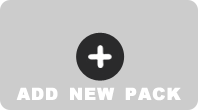
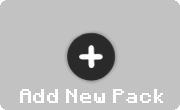
Cleaned up RestAPI calls to catch errors correctly. Updated add pack image.

diff --git a/src/main/java/org/spoutcraft/launcher/technic/rest/RestAPI.java b/src/main/java/org/spoutcraft/launcher/technic/rest/RestAPI.java
@@ -128,18 +128,9 @@ public class RestAPI {
 	}
 
 	private Modpacks setupModpacks() throws RestfulAPIException {
-		InputStream stream = null;
-		String url = restInfoURL;
-		try {
-			URL conn = new URL(url);
-			stream = conn.openConnection().getInputStream();
-			Modpacks result = mapper.readValue(stream, Modpacks.class);
-			return result;
-		} catch (IOException e) {
-			throw new RestfulAPIException("Error accessing URL [" + url + "]", e);
-		} finally {
-			IOUtils.closeQuietly(stream);
-		}
+		Modpacks result = getRestObject(Modpacks.class, restInfoURL);
+		result.setRest(this);
+		return result;
 	}
 
 	public Modpacks getModpacks() {
@@ -155,71 +146,31 @@ public class RestAPI {
 	}
 
 	public String getModMD5(String mod, String build) throws RestfulAPIException {
-		InputStream stream = null;
-		String url = getModMD5URL(mod, build);
-		try {
-			URL conn = new URL(url);
-			stream = conn.openConnection().getInputStream();
-			TechnicMD5 md5Result = mapper.readValue(stream, TechnicMD5.class);
-			return md5Result.getMD5();
-		} catch (IOException e) {
-			throw new RestfulAPIException("Error accessing URL [" + url + "]", e);
-		} finally {
-			IOUtils.closeQuietly(stream);
-		}
+		TechnicMD5 result = getRestObject(TechnicMD5.class, getModMD5URL(mod, build));
+		return result.getMD5();
 	}
 
 	public RestModpack getModpack(RestInfo modpack, String build) throws RestfulAPIException {
-		InputStream stream = null;
-		String url = getModpackURL(modpack.getName(), build);
-		try {
-			URL conn = new URL(url);
-			stream = conn.openConnection().getInputStream();
-			RestModpack result = mapper.readValue(stream, RestModpack.class);
-			result.setRest(this);
-			return result.setInfo(modpack, build);
-		} catch (IOException e) {
-			throw new RestfulAPIException("Error accessing URL [" + url + "]", e);
-		} finally {
-			IOUtils.closeQuietly(stream);
-		}
+		RestModpack result = getRestObject(RestModpack.class, getModpackURL(modpack.getName(), build));
+		result.setRest(this);
+		return result.setInfo(modpack, build);
 	}
 
 	public RestInfo getModpackInfo(String modpack) throws RestfulAPIException {
-		InputStream stream = null;
-		String url = getModpackInfoURL(modpack);
-		try {
-			URL conn = new URL(url);
-			stream = conn.openStream();
-			RestInfo result = mapper.readValue(stream, RestInfo.class);
-			result.setRest(this);
-			result.init();
-			String display = modpacks.getDisplayName(modpack);
-			if (display != null) {
-				result.setDisplayName(display);
-			}
-			return result;
-		} catch (IOException e) {
-			throw new RestfulAPIException("Error accessing URL [" + url + "]", e);
-		} finally {
-			IOUtils.closeQuietly(stream);
+		RestInfo result = getRestObject(RestInfo.class, getModpackInfoURL(modpack));
+		result.setRest(this);
+		result.init();
+		String display = modpacks.getDisplayName(modpack);
+		if (display != null) {
+			result.setDisplayName(display);
 		}
+		return result;
 	}
 
 	public static CustomInfo getCustomModpack(String packURL) throws RestfulAPIException {
-		InputStream stream = null;
-		String url = packURL;
-		try {
-			URL conn = new URL(url);
-			stream = conn.openStream();
-			CustomInfo result = mapper.readValue(stream, CustomInfo.class);
-			result.init();
-			return result;
-		} catch (IOException e) {
-			throw new RestfulAPIException("Error accessing URL [" + url + "]", e);
-		} finally {
-			IOUtils.closeQuietly(stream);
-		}
+		CustomInfo info = getRestObject(CustomInfo.class, packURL);
+		info.init();
+		return info;
 	}
 
 	public String getLatestBuild(String modpack) throws RestfulAPIException {
@@ -231,33 +182,13 @@ public class RestAPI {
 	}
 
 	public String getModpackMD5(String modpack) throws RestfulAPIException {
-		InputStream stream = null;
-		String url = getModpackMD5URL(modpack);
-		try {
-			URL conn = new URL(url);
-			stream = conn.openConnection().getInputStream();
-			TechnicMD5 md5Result = mapper.readValue(stream, TechnicMD5.class);
-			return md5Result.getMD5();
-		} catch (IOException e) {
-			throw new RestfulAPIException("Error accessing URL [" + url + "]", e);
-		} finally {
-			IOUtils.closeQuietly(stream);
-		}
+		TechnicMD5 result = getRestObject(TechnicMD5.class, getModpackMD5URL(modpack));
+		return result.getMD5();
 	}
 	
 	public static int getLatestLauncherBuild() throws RestfulAPIException {
-		InputStream stream = null;
-		String url = "http://beta.technicpack.net/api/launcher/version/latest";
-		try {
-			URL conn = new URL(url);
-			stream = conn.openConnection().getInputStream();
-			LauncherBuild buildResult = mapper.readValue(stream, LauncherBuild.class);
-			return buildResult.getLatestBuild();
-		} catch (IOException e) {
-			throw new RestfulAPIException("Error accessing URL [" + url + "]", e);
-		} finally {
-			IOUtils.closeQuietly(stream);
-		}
+		LauncherBuild result = getRestObject(LauncherBuild.class, "http://beta.technicpack.net/api/launcher/version/latest");
+		return result.getLatestBuild();
 	}
 	
 	public static String getLauncherDownloadURL(int version, Boolean isJar) throws RestfulAPIException {
@@ -268,20 +199,30 @@ public class RestAPI {
 			ext = "exe";
 		}
 		
-		InputStream stream = null;
 		String url = "http://beta.technicpack.net/api/launcher/url/" + version + "/" + ext;
+		LauncherURL result = getRestObject(LauncherURL.class, url);
+		return result.getLauncherURL();
+	}
+
+	@SuppressWarnings("unchecked")
+	public static <T extends RestObject> T getRestObject(Class<T> restObject, String url) throws RestfulAPIException {
+		InputStream stream = null;
 		try {
 			URL conn = new URL(url);
 			stream = conn.openConnection().getInputStream();
-			LauncherURL buildURL = mapper.readValue(stream, LauncherURL.class);
-			return buildURL.getLauncherURL();
+			RestObject result = mapper.readValue(stream, restObject);
+			if (result.hasError()) {
+				throw new RestfulAPIException("Error in json response: " + result.getError());
+			}
+
+			return (T) result;
 		} catch (IOException e) {
 			throw new RestfulAPIException("Error accessing URL [" + url + "]", e);
 		} finally {
 			IOUtils.closeQuietly(stream);
 		}
 	}
-
+ 
 	public static String getMinecraftURL(String user) {
 		return "http://s3.amazonaws.com/MinecraftDownload/minecraft.jar?user=" + user + "&ticket=1";
 	}
@@ -296,7 +237,7 @@ public class RestAPI {
 		return MirrorUtils.getMirrorUrl(mirrorURL, fallbackURL);
 	}
 
-	private static class TechnicMD5 {
+	private static class TechnicMD5 extends RestObject {
 		@JsonProperty("MD5")
 		String md5;
 
@@ -305,7 +246,7 @@ public class RestAPI {
 		}
 	}
 	
-	private static class LauncherBuild {
+	private static class LauncherBuild extends RestObject {
 		@JsonProperty("LatestBuild")
 		int latestBuild;
 		
@@ -314,7 +255,7 @@ public class RestAPI {
 		}
 	}
 	
-	private static class LauncherURL {
+	private static class LauncherURL extends RestObject {
 		@JsonProperty("URL")
 		String launcherURL;
 		

diff --git a/src/main/java/org/spoutcraft/launcher/technic/RestInfo.java b/src/main/java/org/spoutcraft/launcher/technic/RestInfo.java
@@ -34,7 +34,6 @@ import org.codehaus.jackson.annotate.JsonIgnoreProperties;
 import org.codehaus.jackson.annotate.JsonProperty;
 import org.spoutcraft.launcher.exceptions.RestfulAPIException;
 import org.spoutcraft.launcher.technic.rest.Modpack;
-import org.spoutcraft.launcher.technic.rest.RestAPI;
 import org.spoutcraft.launcher.technic.rest.pack.OfflineModpack;
 
 @JsonIgnoreProperties(ignoreUnknown = true)
@@ -56,20 +55,10 @@ public class RestInfo extends PackInfo {
 	@JsonProperty("url")
 	private String url;
 
-	private RestAPI rest;
-
 	private String displayName = "Technic";
 
 	public void setDisplayName(String displayName) {
 		this.displayName = displayName;
-	}
-
-	public void setRest(RestAPI rest) {
-		this.rest = rest;
-	}
-
-	public RestAPI getRest() {
-		return rest;
 	}
 
 	public String getWebURL() {
@@ -102,17 +91,17 @@ public class RestInfo extends PackInfo {
 
 	@Override
 	public String getLogoURL() {
-		return rest.getModpackImgURL(name);
+		return getRest().getModpackImgURL(name);
 	}
 	
 	@Override
 	public String getBackgroundURL() {
-		return rest.getModpackBackgroundURL(name);
+		return getRest().getModpackBackgroundURL(name);
 	}
 
 	@Override
 	public String getIconURL() {
-		return rest.getModpackIconURL(name);
+		return getRest().getModpackIconURL(name);
 	}
 
 	@Override

diff --git a/src/main/java/org/spoutcraft/launcher/technic/rest/Modpacks.java b/src/main/java/org/spoutcraft/launcher/technic/rest/Modpacks.java
@@ -37,14 +37,12 @@ import org.spoutcraft.launcher.exceptions.RestfulAPIException;
 import org.spoutcraft.launcher.technic.RestInfo;
 
 @JsonIgnoreProperties(ignoreUnknown = true)
-public class Modpacks {
+public class Modpacks extends RestObject {
 
 	@JsonProperty("modpacks")
 	private Map<String, String> modpacks;
 	@JsonProperty("mirror_url")
 	private String mirrorURL;
-
-	private RestAPI rest = null;
 
 	public String getDisplayName(String modpack) {
 		return modpacks.get(modpack);
@@ -53,7 +51,7 @@ public class Modpacks {
 	public List<RestInfo> getModpacks() throws RestfulAPIException {
 		List<RestInfo> modpackInfos = new ArrayList<RestInfo>(modpacks.size());
 		for (String pack : modpacks.keySet()) {
-			RestInfo info = rest.getModpackInfo(pack);
+			RestInfo info = getRest().getModpackInfo(pack);
 			modpackInfos.add(info);
 		}
 		return modpackInfos;
@@ -66,14 +64,6 @@ public class Modpacks {
 	@Override
 	public String toString() {
 		return "{ Modpacks [modpacks: " + modpacks + "] }";
-	}
-
-	public void setRest(RestAPI rest) {
-		this.rest = rest;
-	}
-
-	public RestAPI getRest() {
-		return rest;
 	}
 
 	public Map<String, String> getMap() {

diff --git a/src/main/java/org/spoutcraft/launcher/technic/PackInfo.java b/src/main/java/org/spoutcraft/launcher/technic/PackInfo.java
@@ -37,6 +37,7 @@ import javax.imageio.ImageIO;
 
 import org.spoutcraft.launcher.Settings;
 import org.spoutcraft.launcher.technic.rest.Modpack;
+import org.spoutcraft.launcher.technic.rest.RestObject;
 import org.spoutcraft.launcher.technic.skin.ModpackOptions;
 import org.spoutcraft.launcher.util.Download;
 import org.spoutcraft.launcher.util.DownloadUtils;
@@ -45,7 +46,7 @@ import org.spoutcraft.launcher.util.ResourceUtils;
 import org.spoutcraft.launcher.util.Utils;
 import org.spoutcraft.launcher.util.FileUtils;
 
-public abstract class PackInfo {
+public abstract class PackInfo extends RestObject {
 	private Image logo;
 	private Image background;
 	private Image icon;

diff --git a/src/main/java/org/spoutcraft/launcher/technic/rest/RestObject.java b/src/main/java/org/spoutcraft/launcher/technic/rest/RestObject.java
@@ -1,0 +1,28 @@
+package org.spoutcraft.launcher.technic.rest;
+
+import org.codehaus.jackson.annotate.JsonIgnoreProperties;
+import org.codehaus.jackson.annotate.JsonProperty;
+
+@JsonIgnoreProperties(ignoreUnknown = true)
+public class RestObject {
+	@JsonProperty("error")
+	private String error;
+
+	private RestAPI rest;
+
+	public String getError() {
+		return error;
+	}
+
+	public boolean hasError() {
+		return error != null;
+	}
+
+	public void setRest(RestAPI rest) {
+		this.rest = rest;
+	}
+
+	public RestAPI getRest() {
+		return rest;
+	}
+}

diff --git a/src/main/java/org/spoutcraft/launcher/technic/rest/Modpack.java b/src/main/java/org/spoutcraft/launcher/technic/rest/Modpack.java
@@ -28,7 +28,7 @@ package org.spoutcraft.launcher.technic.rest;
 
 import java.util.List;
 
-public abstract class Modpack {
+public abstract class Modpack extends RestObject {
 	protected RestAPI rest;
 	
 	public abstract String getMinecraftVersion();
@@ -38,8 +38,4 @@ public abstract class Modpack {
 	public abstract String getName();
 
 	public abstract List<Mod> getMods();
-
-	public void setRest(RestAPI rest) {
-		this.rest = rest;
-	}
 }
